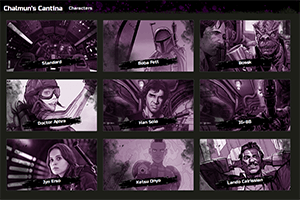
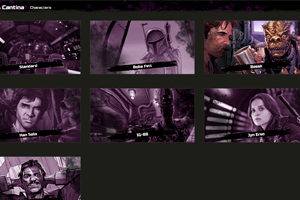
added to storee

diff --git a/store.js b/store.js
@@ -1,12 +1,12 @@
 const tinkeringStuff = [
   {
-  title: 'Weyr Alliance',
-  liveLink: 'https://wery-alliance.com',
-  githubLink: 'https://github.com/Brahyt/weyr-client',
-  githubLink2: 'https://github.com/Brahyt/weyr-server',
-  desc: 'Charactor/Party managment for dragonfire game. Built in React, Express.js, Node.js, and SQL. ',
+  title: 'weyr alliance',
+  livelink: 'https://wery-alliance.com',
+  githublink: 'https://github.com/brahyt/weyr-client',
+  githublink2: 'https://github.com/brahyt/weyr-server',
+  desc: 'charactor/party managment for dragonfire game. built in react, express.js, node.js, and sql. ',
   preview: 'images/weyr.png',
-  alt: 'Screenshot of the a bookmarking app that I made in Jquery and Javascript.'
+  alt: 'screenshot of the a bookmarking app that i made in jquery and javascript.'
   },
   {
   title: 'Quendi - Spaced Repetition',
@@ -25,6 +25,24 @@ const tinkeringStuff = [
   desc: 'Web app that is built using Ember.js and Javascript for the Marvel Champions Card Game',
   preview: 'images/danger.png',
   alt: 'Orange background with marvel characters, with overlay website with options.'
+  },
+  {
+  title: 'Chaulmans Cantina',
+  livelink: 'https://chalmuns-cantina.herokuapp.com/',
+  githublink: 'https://github.com/hone/chalmuns-cantina',
+  githublink2: 'https://github.com/hone/chalmuns-cantina',
+  desc: 'Web app that creates an AI deck for Star Wars Outer Rim card game. Built in Ember.js and Javascript ',
+  preview: 'images/chaul.png',
+  alt: 'black screen with purple icons with star wars characters, one in color because it is being selected'
+  },
+  {
+  title: 'IE Culinary Apprentice',
+  livelink: 'https://ieculinaryapprentice.com/',
+  githublink: 'https://github.com/Brahyt/ieculinary',
+  githublink2: 'https://github.com/Brahyt/ieculinary',
+  desc: 'Webapp built on Ruby on Rails. Used for a culinary apprenticeship program to attract new mentors and apprentices. ',
+  preview: 'images/cul.png',
+  alt: 'blue kitchen image with students working in a kitchen.'
   },
 
 ]
